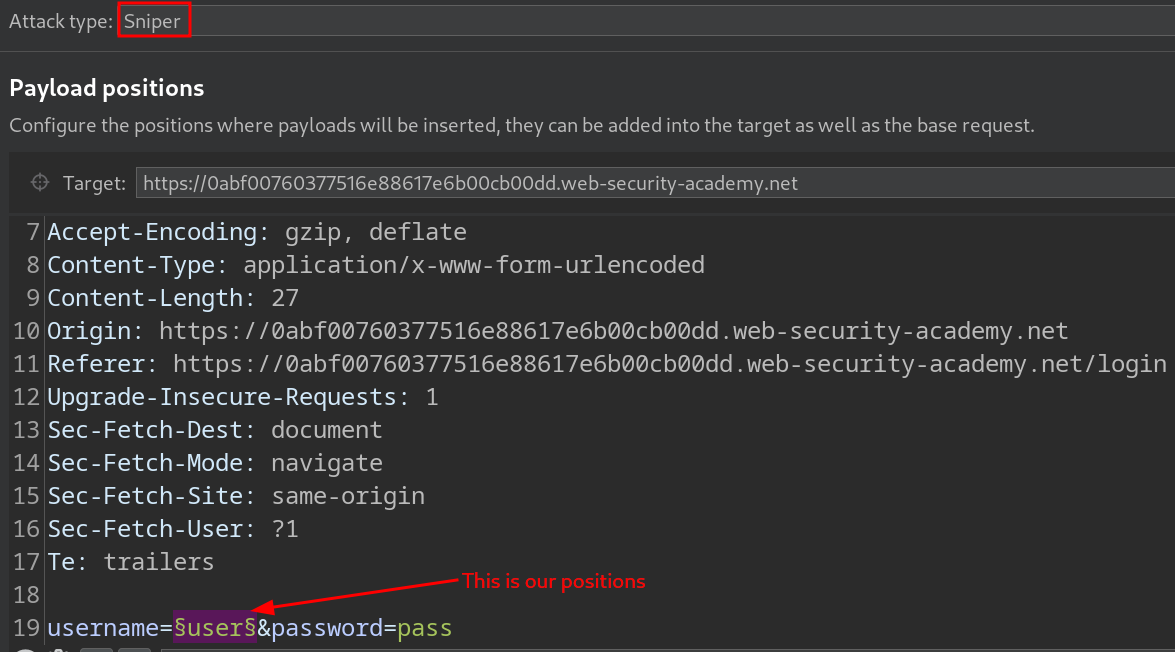
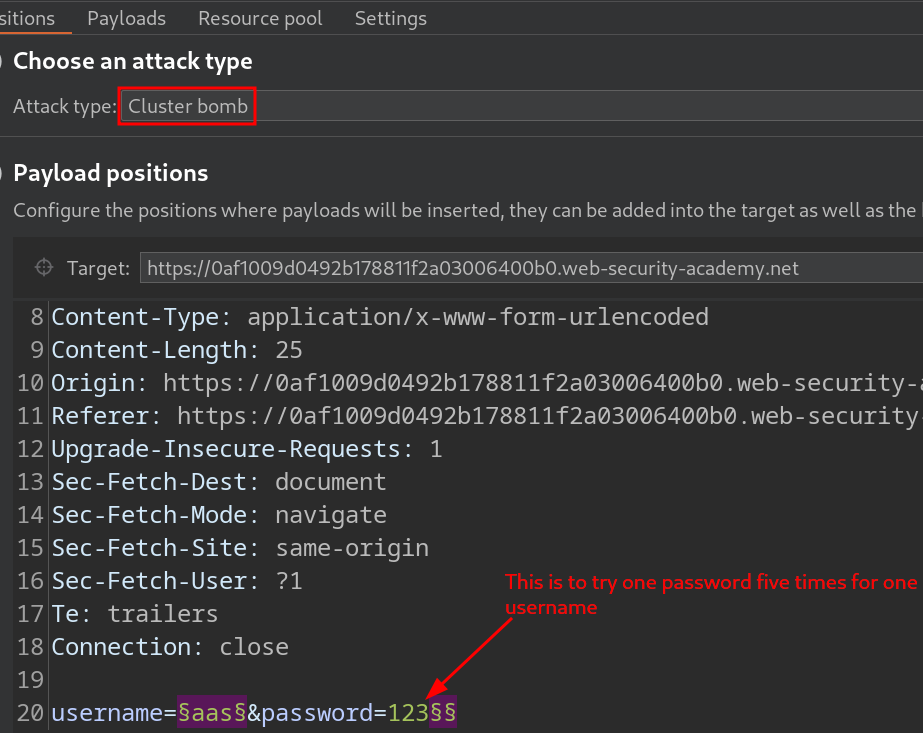
account lock done till username payload settings

Changed region(s): [[0.0, 0.3374, 1.0, 1.0], [0.0, 0.0, 1.0, 0.3067], [0.546, 0.7669, 1.0, 0.8589]]

diff --git a/portswigger/Authentication/Vulnerabilities in authentication mechanisms/Vulnerabilities in password-based login/Username enumeration/Username enumeration via account lock(Lab-5).md b/portswigger/Authentication/Vulnerabilities in authentication mechanisms/Vulnerabilities in password-based login/Username enumeration/Username enumeration via account lock(Lab-5).md
@@ -4,4 +4,7 @@
 2. Setting up payload for username:
    ![[username_enumeration via_account_lock2.png]]
 
-3. 
+3. Setting up payload for password:
+   ![[username_enumeration via_account_lock3.png]]
+
+4. 
